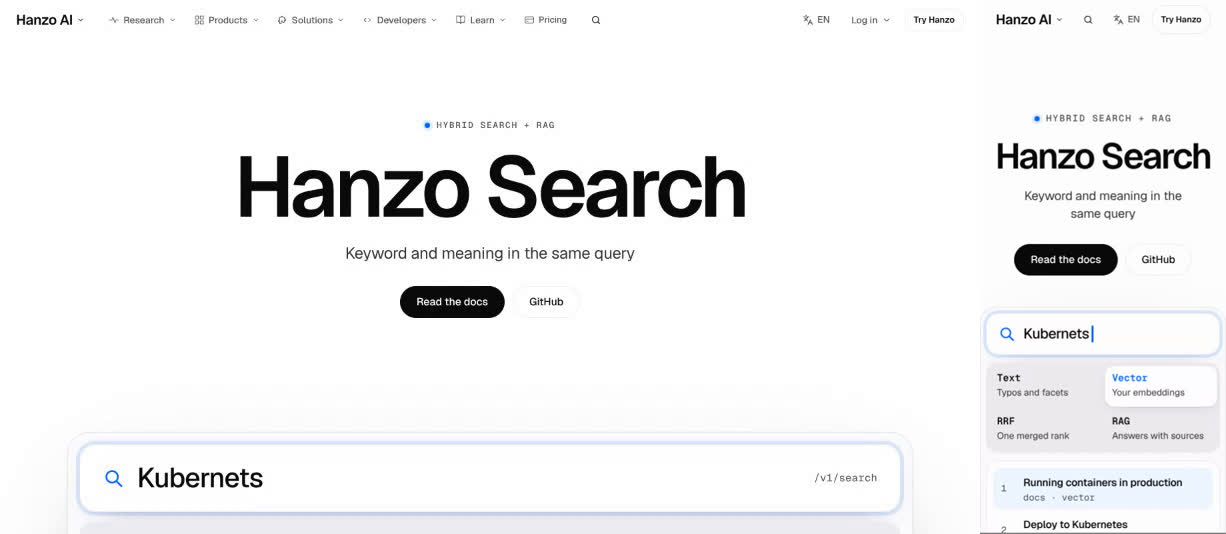
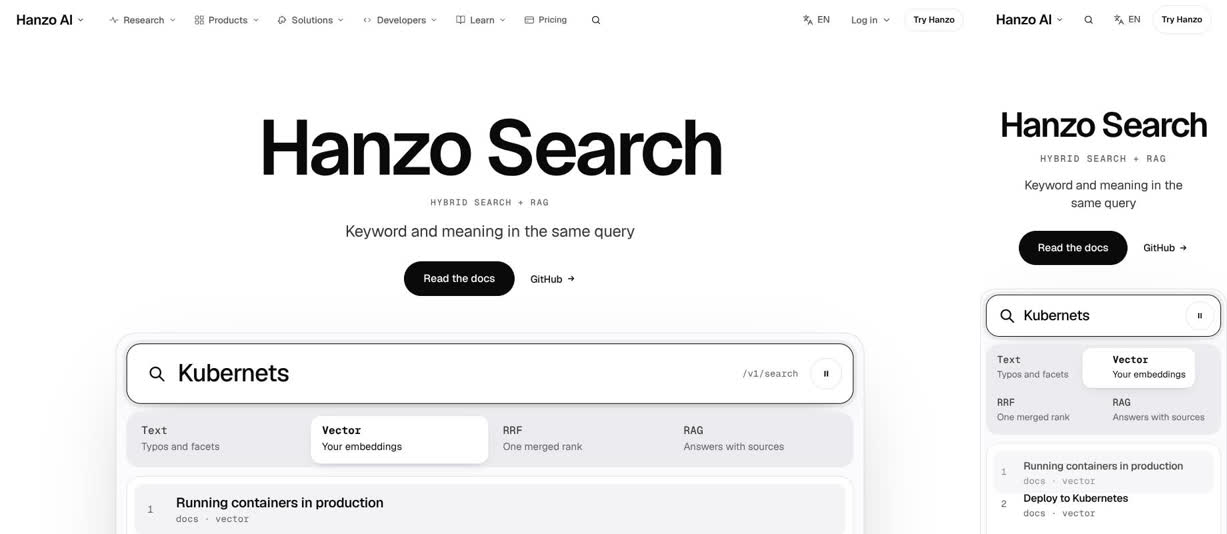
re-review: /search 6/10 on the recoloured build (ask bar covers content, everything big below the hero)
Claude-Session: https://claude.ai/code/session_01DqUybEnABm6Lfey1goid2b

diff --git a/docs/review/search.md b/docs/review/search.md
@@ -1,158 +1,167 @@
 # /search: James-eye review
 
-Verdict: 5/10
-First complaint: "It's still blue. The search box, the tabs, the dots, the sliders, the chat bubble, even a blue glow in the dark section, and the little green tag is still there. I said black, white and greys. And on my laptop it still opens on a big title with the search box cut off at the bottom, and nothing moves until I scroll."
+Verdict: 6/10
+First complaint: "The top is right now: it's black and white and the search types itself. But that 'Read the docs' bar sits on top of the words all the way down, it even hides a price, and on my phone I pressed Copy and it opened the docs. Everything under it is huge, and after the four ways nothing moves."
 
-Reviewed: main @ `48dfb49` (last page commit `486d6d0`). Files hash: `a75074f23cdd`
-Walked 7 Nov 14:19–14:21 UTC on the dev server, moving, at 1470×801 and 375×812 (videos, frame sheets and a frame-difference motion log kept by the critic; the site loader was skipped).
+Reviewed: main @ `cb11693` (last page commit `4b53974`). Files hash: `ddbb4c20614f`
+Walked 7 Nov 14:36–14:39 UTC on the dev server, moving, at 1470×801 and 375×812 (videos, frame sheets and a frame-difference motion log kept by the critic; the site loader was skipped).
 Proof: `img/search.jpg` (desktop first screen | phone first screen).
 
 ## Since the last review
-- **Done: the red error badge.** React no longer reports a server/client mismatch. No "1 Issue" badge appears in any frame, and the walker logged 0 page errors at both widths. The fix is the shared `useCalm` hook in `StageHero` and in the chapter pictures.
-- **Done: JS off.** The h1, the lede "Keyword and meaning in the same query" and both hero buttons now show with JS off (0 hidden text runs, down from 8).
-- **Half done: presses and the ask.**
-  - Hero "Read the docs" and "GitHub", "Contact Sales" and "View on GitHub" now press to 0.98, and "Copy" now answers hover.
-  - A sticky "Hanzo Search · Read the docs →" bar now follows you on desktop from the chapters to pricing. On phone the header's "Try Hanzo" goes outlined while that bar shows, so each phone screen has one fixed solid ask.
-  - The page still ends on a different solid verb, "Deploy to Cloud".
-- **Still open: everything else on the old list.** Since the last review `Search.jsx` changed by 6 lines (the reduced-motion hook and one import path), and `Search.css` did not change at all.
-  - `--ac: #0066ff` is still on `<main>`, and the file header still says "Accent: search-link blue". The walk measured blue in 40 text runs on desktop (22 last time). The green "typo fixed" tag is still there.
-  - The "● HYBRID SEARCH + RAG" eyebrow is still above the h1.
-  - The desktop bar still sits frozen on the fold.
-  - The dark room still holds the shared console, the chapter ticks still have a dead or fade-only hover, and the sliders are still native.
+- **Done: the colour, the eyebrow and the sliders.** There are 0 hues at either width; last time desktop had blue in 40 text runs, plus the green "typo fixed" tag. "HYBRID SEARCH + RAG" is now a caption under the h1, and the "/v1/search" kicker over "How it works" is gone. The plan sliders now have an ink track and thumb (desktop s10).
+- **Done: the desktop first screen runs and fits.**
+  - At 1470×801 the bar (y 515–605), the four modes (620–700) and the first result sit above the fold.
+  - The query types itself as soon as the page shows (d-sheet-01: "Ku" → "Kubernets"), then the modes take turns (the s0 shot pair goes from Text to Vector). There is a 44px pause.
+  - The RAG answer now ends in Hanzo's own sentence with "[1] RAG chat [2] How it works" (s6), instead of grey bars.
+  - The dark room shows the bar with documents landing in it, and the gateway console has moved into a drawer.
+- **Done: one ask to the end.** "Deploy to Cloud" is a text link. The fitted plan gets an ink ring and an outlined button. The black band repeats "Read the docs". There are 8 `data-cta` and 1 `data-thumb`, and `docs/coverage/search.md` exists.
+- **Still open:**
+  - the three equal "Related capabilities" boxes, and the two endings ("Get Search", then the band);
+  - Pause and the related cards still have no press, and "Vector" still has a dead hover;
+  - phone motion still dies after the first screen. Now 18 of 19 phone screens are STILL; last time it was 7 of 14.
+- **Not judged:** page commit `d5d6f10` (14:37) landed on main after this walk. Its message reads "one dark ending … related as a line of links, frameworks picker". The coverage card on main already describes that build, so the next walk has to check it.
 
 ## The 11 answers
-1. **Sells in 5 seconds, moves within 1 second?** Phone yes, desktop no.
-   - **The words are clear:** "Hanzo Search / Keyword and meaning in the same query", 128px at line height 0.92. After the usual blank body before the page loads, the title rises out of a mask at about 2.1 s.
-   - **Desktop at 1470×801:** the bar sits on the fold (about y 650–770), with about 175px of empty white between the buttons and the bar. The four modes and the results are below the screen. The bar holds a fixed "Kubernets" with a blinking blue caret. Measured: 0 of 25 frames changed in the first second after paint. The first-screen dwell was STILL (2 of 45 frames, the caret). The typing only starts once you scroll (sheet 02: the bar empties to "K" as the first scroll begins).
-   - **Phone:** good. The bar, the four modes and the first result fit 375×812. The query types itself and the modes switch from Text to Vector: 13 of 25 frames move in the first second, and 28 of 54 after that.
-2. **One in, one out, or a document?** It starts well and then turns into a document.
-   - **The stage works:** as you scroll, the title greys and lifts away while the bar rises and types. But the bar then holds the screen for two full scroll stops (650 and 1300px) and part of a third, running the same Text → Vector loop.
-   - **The four chapters are a real pinned scene** where one panel changes: the corrected Kubern**e**tes with "docs / last quarter", then the map by meaning, then two lists fusing into one, then the RAG chat.
-   - **After that it is stacked blocks:**
-     - a dark room with the console and three "Step" paragraphs;
-     - a list of framework names;
-     - pricing;
-     - two endings in a row: "Make your content searchable and conversational" with its own buttons and agent prompt, then "Related capabilities" and "Get Search".
-   - **Phone:** 7 of the 14 page screens are STILL (s3, s4, s6, s8, s10, s11, s13), and most of the others move 4–6 frames at a tiny size.
-   - The desktop film ends at the top of the footer, and the phone film reaches the end.
-3. **A real object in every section?** No.
-   - **Yes:** the stage (the bar), the chapters (four different pictures) and pricing. The "Which plan fits" finder works: moving Projects from 5 to 8 moves "fits" from Build to Scale and lights the Scale row (desktop sheet 11).
-   - **The RAG chat's "streamed answer"** is five grey bars that grow and never become words. It still reads as a loading placeholder.
-   - **The dark room's object** is the shared cloud console (gateway, payments-api, checkout-web, docs-site, "Building"), the same one /gateway, /base, /crawl, /registry and /billing use. Its caption is the gateway's line, "Every request enters here, so the limiter does too." It shows nothing about search.
-   - **No object at all:** frameworks is big type, "Related capabilities" is three text cards, and "Get Search" has nothing.
-4. **One ask, sticky after the hero?** Nearly, but not to the end.
-   - **The hero** has a black "Read the docs" and an outlined "GitHub".
-   - **The sticky bar:** from the chapters to pricing, "Read the docs →" sits in a bar at the bottom on both widths (desktop s3–s11, phone s2–s9), and on phone the header's "Try Hanzo" turns outlined beside it.
-   - **But:**
-     - In pricing the fitted plan's "Read the docs" also turns solid, so two black buttons share the screen.
-     - The page's last solid button is a different verb, "Deploy to Cloud", in the "Get Search" block.
-5. **Every hover and press answers?** No.
-   - **Mode tabs:** they press (0.98), but "Vector" has a dead hover. `Search.css` has no hover rule for the mode tabs at all, so "Text" only "answered" because the demo moved on by itself.
-   - **Chapter ticks:** "01" has a dead hover, and "04" has an opacity-only hover (banned). Both press to 0.98.
-   - **No press state:** the plan sliders (native browser range inputs tinted blue), the three "Related capabilities" cards, the "hanzoai" chip and the console's side icons.
-   - **Good:** the hero buttons, "Contact Sales" and "View on GitHub" press to 0.98. "Copy" presses to 0.92. The framework names nudge 10px on hover, but they turn blue as they do.
-6. **Overlap, font swap, layout shift?** None found.
-   - CLS is 0.009 on desktop (one result row as it fills) and 0 on phone.
-   - The h1 box is steady: one reading, 769×123 at top 218 on desktop and 329×53 at top 212 on phone.
-   - No horizontal scroll at 375 or 320, and no overlaps measured. The error badge is gone.
-7. **Which reference, and is its motion there?** The apple.com product page, and its motion is mostly there:
-   - a Spotlight-size bar as the product hero, with the copy stepping back as the object rises;
-   - pinned chapters where one panel changes;
-   - tabs whose white pill slides between them.
+1. **Sells in 5 seconds, moves within 1 second?** Yes, at both widths.
+   - **Desktop:** everything fits inside 801. "Hanzo Search" is 116px, the caption sits under it, then the lede "Keyword and meaning in the same query", then "Read the docs" and "GitHub", the bar, the four modes and the first result.
+   - The body is blank for the usual dev-server ~2 s ("first second after paint" 0/25 falls in that window). Then the h1 cuts in by mask, the query types, and the modes cycle: 10/48 moving frames in the rest of the 3 s.
+   - **Phone:** the 52px title, caption, lede, ask, bar, modes and two results are all on the first screen. 7/25 frames move in the first second and 41/63 after that.
+2. **One in, one out, or a document?** The first half yes, the second half is a document.
+   - **The stage:** the title steps back and the bar rises to the top and keeps answering. On desktop s1 it streams the RAG answer, with about 240px of empty white under the bar.
+   - **The four chapters** are a real pinned scene where one panel changes: the corrected Kubern**e**tes, the map by meaning, the two lists fusing into one, then the answer with its sources.
+   - **After that come stacked blocks:** the dark room, five framework names, pricing, "Get Search" with its prompt and three boxes, then the black band.
+   - **Motion past the chapters:** the shot pairs differ only by a 1–2px scroll settle. Once that is aligned out, the only authored motion is at s0 (typing, modes), s1 (the answer streaming) and s5 (the lists fusing). s3 and s4 are STILL, and s7–s14 change only by a blinking caret or a hover nudge. The dark room waits for a hover: d-sheet-11 shows "Index your content" unchanged for 4 s.
+   - **Phone:** 18 of 19 screens are STILL (shotdiff 0 from s1 to s18). The chapter pictures play on mount, so they are finished before you reach them.
+3. **A real object in every section?** Mostly.
+   - **Yes:** the bar (hero), four chapter pictures, the dark room's bar with documents landing, and the fit-finder ("Projects 5, Docs per project 10k, fits Build" lights the Build card).
+   - **No object:** frameworks is five names in big type. "Related capabilities" is three text boxes. The band is text only.
+   - **The drawer:** "See the example console" opens on phone (frame at 23.9 s), but it still holds the shared gateway console (gateway, payments-api, checkout-web, docs-site). Nothing in it is about search.
+4. **One ask, nothing floating over content? Scale has rhythm?** The ask is right, but the bar floats over content and the scale fails.
+   - **The ask:** one verb throughout. "Read the docs" is solid in the hero, in the site's ask bar from s2 to s11 at both widths (with the header's "Try Hanzo" outlined beside it), and in the band.
+   - **Floating over content, desktop:** the site's ask bar (`components/Ask.jsx`) is a fixed pill at bottom centre. It sits on:
+     - chapter 01's first result, where only "typo fixed" shows (s2);
+     - the dark room's "Cluster quotas" row (s7);
+     - the Enterprise card's "Custom" price (s10);
+     - "Paste this into any agent… from there" (s11).
+   - **Floating over content, phone:** the full-width bar covers:
+     - the last lines of the Vector and Hybrid paragraphs (s2, s3);
+     - the Pricing lede (s9);
+     - the prompt card's "AGENT PROMPT … Copy" row (s11). The walker tapped "Copy" there and the page navigated away: the tap landed on the bar's "Read the docs".
+   - **Scale:** everything below the hero is big at once. Live hanzo.ai rests at h1 52, section heads 26 and figures 64. This page rests at:
+     - h1 116px;
+     - every section head 56px;
+     - the chapter-01 word 92px under a 56px head and a 40px chapter title (s2);
+     - five 44px framework names beside a 56px head (s9);
+     - three 68px prices beside a 56px "Pricing" (s10);
+     - "Get Search" 96px (s11–s12);
+     - the band 76px.
 
-   The motion is a real mix: idle typing (phone only), state changes (the tab pill, the fit-finder row) and scroll (the stage, the chapters). synchronized.studio is absent: "Related capabilities" (Chat, Bot, Crawl) are plain cards that navigate on click. There is no anthropic-style hero figure.
-8. **Different from its neighbours?** Half.
-   - **The first screen is its own.** In Cloud 4 nothing else puts a centred title over a full-width search bar:
-     - /sentinel has its two-line title on the left and an issue card on the right;
-     - /telemetry and /tunnel have a one-line title on the left with the lede and button on the right;
-     - /visor puts the console on the left and the title on the right;
-     - /stream has a dark tape behind the title.
-   - **But it shares their tells:** the same coloured-dot eyebrow over the h1 (/telemetry, /tunnel, /visor and /sentinel all have one), and the same "rise" stage as /world.
-   - **From the chapters on, it is the Cloud kit:**
-     - numbered pinned chapters "01 / 04";
-     - one dark room with the shared console;
-     - the "Paste and ship" agent prompt card;
-     - a "Related capabilities" row;
-     - a "Get Search" block with license and "hanzoai" chips and "Deploy to Cloud", the same `Finale` as /sentinel, /stream, /telemetry, /tunnel, /visor and /world.
+     Nothing grows and settles back. The phone sizes are calmer (h1 52px, section heads 36px).
+5. **Every hover and press answers?** No.
+   - **Answers, with a press of 0.98:** hero "Read the docs"; the "Text" and "RRF" tabs; the "01" and "03" rail ticks; "Query it from anywhere"; "See the example console"; "hanzoai". "Copy" presses to 0.92, and "GitHub", "Deploy to Cloud" and "View on GitHub" press 1px.
+   - **Dead hover:** the "Vector" tab, the lit step cards ("Index your content", "Let people ask instead") and the sliders.
+   - **No press:**
+     - Pause: its hover `scale(1.06)` overrides the `:active` scale(.94), because both rules have the same specificity and the hover comes later.
+     - The related cards: the same fault, with their 4px hover lift, which the walker also logs as a jump.
+   - **Phone taps:**
+     - "Text" and "Let people ask instead" answer.
+     - The sheet does open, and Pause swaps to a play icon (p-sheet-01, last frames), although the walker logged both as "no visible change".
+     - "Copy" was under the ask bar, so the tap went to the bar instead.
+6. **Overlap, font swap, layout shift?**
+   - The fixed ask bar overlaps content at both widths (answer 4).
+   - On phone, the vector map's "Scaling a service" label sits on the corner of "Deploy to Kubernetes", and "Running containers in …" is cut (p-shot-03).
+   - The OVERLAP lines at desktop s7–s8 and phone s6–s7 are each step card's own invisible hit button (`.se2-step-hit`, inset 0) over its heading. Nothing visible overlaps there.
+   - The h1 box is steady: one reading at each width.
+   - CLS is 0.014 on desktop (one result row) and 0 on phone. There is no horizontal scroll at 375 or 320.
+7. **Which reference, and is its motion there?**
+   - **apple.com product page:** yes. A Spotlight-size bar is the product hero, the copy steps back as it rises, and the chapters pin while one panel changes.
+   - **motion.dev:** yes. The mode tabs' white pill glides, and the hybrid lists re-flow into one.
+   - **synchronized.studio:** absent. "Chat", "Bot" and "Crawl" are plain links, and no card opened into its page in the walk.
+   - **anthropic launch:** absent. No hero figure.
+8. **Different from its neighbours?** Only the hero.
+   - **The hero is its own.** In Cloud 4 nothing else centres a title over a full-width search bar:
+     - /sentinel (same commit) has a two-line title on the left and the issue card on the right;
+     - /stream has a dark partition tape behind a one-line title.
+   - **The rest is the Cloud 4 kit:**
+     - the mono caption under the h1 (/sentinel "SENTRY.HANZO.AI", /stream "KAFKA WIRE PROTOCOL");
+     - "01 / 04" pinned chapters with the rail;
+     - one dark room;
+     - the "Get X" block with "License" and "hanzoai" chips, "Deploy to Cloud", "Paste and ship" and three "Related capabilities" boxes, the same as "Get Sentinel";
+     - a black band;
+     - the same "Hanzo X | Read the docs" pill.
 
    James: "It's not just a template."
-9. **All 18 parts covered?** No; see below. `docs/coverage/search.md` is missing on main.
+9. **All 18 parts covered?** No; see below. The card exists and has all 18 parts, but two of its claims fail the walk.
 10. **Banned tells?** Yes:
-    - **Blue UI hue throughout.** The walk measured h210 in 40 text runs, 5 backgrounds and 4 borders on desktop (15, 5 and 4 on phone). It covers:
-      - in the stage: the bar icon, caret and glow ring, the active tab, and the first-row tint;
-      - in the chapters: "01 / 04", the "e" in Kubernetes, the "last quarter" chip, the map's query node and lines, the solid blue question bubble, and the [1] [2] source chips;
-      - in the dark room: "Step 01–03" and a blue glow under the console (`rgba(0,102,255,.45)`);
-      - in the frameworks list: the hovered name;
-      - in pricing: "Which plan fits" and "fits", the slider fills, and the lit plan's border and bullet dots;
-      - in the close: the "api" tag.
+    - **Floating over content:** the site's ask bar covers text, a price and the page's Copy button.
+    - **Everything big at once:** 56px heads beside five 44px names, then beside three 68px prices; "Get Search" at 96px.
+    - **Three equal boxes in a row:** Chat, Bot, Crawl (desktop s12).
+    - **A dead page on phone:** 18 of 19 screens are STILL. On desktop the dark room and everything below it move only when touched.
+    - **Clean:** no hue at either width, nothing above the h1 or any h2, 0 `title=` tooltips, no browser-default controls, no sound and no model cards.
+11. **Copy untouched?** Yes. Parity is 103/103 text and 14/14 links.
+    - The 13 added strings are demo data: the result titles, "How does RAG chat answer?", "docs ·" and the console's build line.
+    - The rest are UI labels: "typo fixed", "Which plan fits", "fits", "See the example console" and "Open in the console ↗".
+    - The streamed answer is Hanzo's own RAG chat sentence. Nothing added is a claim or a number.
 
-      The page declares it: `--ac: #0066ff` and "Accent: search-link blue". JAMES.md rule 7: the UI has 0 hues.
-    - **A green "typo fixed" tag** (h135, `#1a7f37` on `#e7f6ec`), on the first screen of the phone and in chapter 01.
-    - **A "● HYBRID SEARCH + RAG" eyebrow** 22px above the h1, with a blue dot. There is also a "/V1/SEARCH" kicker above the dark room's "How it works".
-    - **Hovers:** opacity-only on chapter tick "04", and dead on tick "01" and the "Vector" tab.
-    - **Browser-default controls:** the two plan sliders are native `<input type="range">` with `accent-color`, and there are 8 native `title=` tooltips on the console icons.
-    - No sound plays. No Hanzo model cards are on this page.
-11. **Copy untouched?** Yes. Parity is 103/103 text and 14/14 links. The 12 added strings are the same as before:
-    - demo data: the query "Kubernets", the result titles, "How do I deploy to Kubernetes?" and the console's build line;
-    - labels: "typo fixed", "Which plan fits", "fits", "Open in the console ↗".
+## Missing from the 18 parts (MASTER §2, measured; coverage card checked)
+- **Part 1 Strategy:** Persona, Goal and CTA are in the header. The metric id is inside the CTA line ("Metric: cta_click:search.primary"), so the check finds none. The card lists no copy questions.
+- **Part 3 First impression:**
+  - After the stage, the bar holds the top of the screen with about 240px of empty white under it (desktop s1).
+  - The page still ends twice: "Get Search" with its prompt and boxes, then the band.
+  - No card opens into its page (Morph).
+- **Part 4 Conversion:** the site's ask bar sits over content at both widths: desktop s2, s7, s10 and s11, phone s2, s3, s9 and s11. On phone it sits on the prompt's Copy button.
+- **Part 6 Content:** "FITS" is 13px on phone, under the 14px floor. It is a mono capital label, so it should be a 12px caption or 14px.
+- **Part 7 Visual system:**
+  - 0 hues, and nothing above a headline.
+  - `Search.css` carries 32 literal greys (`#5f5f64` ×13, `#3a3a3c` ×5, `#f5f5f7` ×4, …) instead of the `--hz-*` tokens. `#5f5f64` is not a token at all.
+  - Only the hero differs from its neighbours.
+- **Part 8 Components:**
+  - The Pause and related-card presses are masked by their hover transforms.
+  - The "Vector" tab, the lit step cards and the sliders have no hover.
+  - 9 bare `:hover` rules and 5 raw `.x-btn` uses (source scan).
+- **Part 9 Motion:**
+  - Below the chapters nothing runs without input. `HowBar`'s own comment says "nothing here runs by itself".
+  - Phone is 18 of 19 STILL.
+  - There are 4 `type: 'spring'` transitions (stiffness 300, damping 30), where the deck says no springs.
+  - There are 4 `setInterval` timers.
+  - Reduced motion settles (0 running after 3 s).
+- **Part 11 Mobile:**
+  - "GitHub" (68×21), "Deploy to Cloud" (132×21) and "View on GitHub" (127×21) are under 44px.
+  - The vector map's labels collide.
+  - The bottom bar covers text and the Copy button.
+- **Coverage:** `docs/coverage/search.md` has all 18 parts in the older numbered format, but two claims are false:
+  - **Part 9:** "every button scales .98 on press". Pause and the related cards do not press, and the sliders have no hover.
+  - **Part 11:** "targets ≥44px … the ask bar sits under the thumb". Three links are 21px tall, and the bar covers text and Copy.
 
-    None is a claim or a number.
-
-## Missing from the 18 parts (PLAN-COMPONENTS §2.1–2.18, measured)
-- **2.1 Strategy / 4 Common gate:** no `Persona:`, `Goal:`, `CTA:` or metric id in the page header. Pricing shows two solid "Read the docs" buttons at once (the fitted plan's and the sticky bar's).
-- **2.3 First impression:**
-  - At 1470×801 the hero object is cut at the fold and frozen until you scroll.
-  - The page does not end in a Band that repeats the hero ask (`bandAtEnd` false; the last solid button is "Deploy to Cloud").
-  - The related cards do not open into their pages (Morph row).
-- **2.4 Conversion:** 0 `data-cta`. The sticky bar ("Read the docs →") and the final solid button ("Deploy to Cloud") use different verbs.
-- **2.6 Content:** 18 text runs at 13px on phone, below the 14px floor ("Search — Hanzo", "Ready", "Building", "api.hanzo.ai/v1/search", "/v1/search"). On desktop, "Copy" measures under the 13px floor.
-- **2.7 Visual system:** the blue accent, declared as a page token (`--ac`), the blue glow in the dark room, and the green tag all break the 0-hue override.
-- **2.8 Components:**
-  - 8 `title=` tooltips (plan: 0).
-  - 10 bare `:hover` rules and 6 raw `.x-btn`.
-  - No hover rule on the mode tabs. Chapter ticks: dead or opacity-only hover.
-  - Native range sliders.
-  - No press on the related cards, the sliders or the console icons.
-- **2.9 Motion:** 3 `setInterval` timers (the typing loop and two in the shared `Frame.jsx`). The hero demo loops every 14.4 s with no pause control (WCAG 2.2.2 row in 2.12). The desktop hero demo does not start until scrolled. Reduced motion is good: everything comes to rest.
-- **2.11 Mobile:** these hit areas are under 44px:
-  - "Search — Hanzo" (13px tall);
-  - "Open in the console" (36px);
-  - the "hanzoai" chip (36px).
-- **2.12 Accessibility:** contrast under 4.5:1 on the active tab "Text" (4.1:1, blue), "Step 01/02/03" (4.3:1) and the prompt's "api" tag (3.7:1).
-- **2.17 States:** the RAG answer is a skeleton that never resolves, so the page shows a loading state as its finished state.
-- **Coverage:** `docs/coverage/search.md` is missing on main.
-- Passing:
-  - structure: one h1, one main, no raw img/video/table, and no horizontal scroll at 320;
-  - JS off is legible (0 hidden runs), and reduced motion settles;
-  - CLS 0.009 or less, no page errors and no error badge;
-  - parity is complete;
-  - the phone first screen holds the product and moves;
-  - a sticky ask in the hero's words appears on both widths.
+  Its part 2 and "Ledger (deleted)" lines now describe `d5d6f10`, which this walk did not see.
+- **Passing:**
+  - **Structure:** one h1 and one main; no raw img, video or table; no horizontal scroll at 320.
+  - **Load and fallbacks:** JS off shows everything (0 hidden runs), and reduced motion settles. The h1 box is steady, CLS is 0.014 and 0, and there are no console errors at either width.
+  - **Look:** 0 hues, nothing above any headline, 0 low-contrast runs, 0 title tooltips, and custom sliders.
+  - **Ask and states:** 8 `data-cta` and 1 `data-thumb`; the band repeats the hero's ask; the RAG answer resolves; the hero object has a 44px pause.
+  - **Copy:** parity 103/103 and 14/14.
 
 ## Fixes (in order)
-1. **Take the blue and the green out.** Set `--ac` to ink, or remove it from `<main>`.
-   - **Stage:** make the bar's icon, caret and focus ring ink and grey, and show the active tab by weight.
-   - **Chapters:**
-     - Mark the corrected "e" with an ink underline.
-     - Make the query node, its lines, the question bubble and the source chips ink.
-     - Turn "typo fixed" into an ink outline chip.
-   - **Dark room:** make "Step 01–03" grey, and delete the blue `box-shadow` under the console.
-   - **Frameworks and pricing:** keep the frameworks hover as the 10px nudge in ink. Draw the lit plan, its dots and the slider fill in ink.
-2. **Move "Hybrid Search + RAG" off the headline.** Keep the words but put them where nothing sits above the h1, for example in the bar's right-hand slot beside "/v1/search", or under the lede in grey. Delete the "/v1/search" kicker above "How it works"; the address is already in the bar.
-3. **Make the desktop first screen run and fit.**
-   - Start the typing on arrival: call `useLive(0)` in `Ask`, or start it on mount.
-   - Cut the ~175px gap between the buttons and the bar, so the bar and the four modes sit above 801.
-   - Shorten the stage so the bar holds for one scroll stop, not two.
-4. **One ask to the very end.** Make "Read the docs" the last solid button: "Deploy to Cloud" in the "Get Search" block becomes outlined or a text link. In pricing, mark the fitted plan with an ink border and leave its button outlined while the sticky "Read the docs →" bar is showing.
-5. **Make every control answer.**
-   - Give the mode tabs a hover: ink label plus a faint pill.
-   - Give the chapter ticks a hover that is not opacity (a width or label reveal).
-   - Restyle the two sliders with `appearance: none`, an ink track and an ink thumb that grows on hover and presses to 0.98, keeping the same input underneath.
-   - Give the related cards a press of 0.98.
-   - Drop the 8 `title=` attributes from the console icons; they already show their own label.
-6. **Give the dark room Search's own object, and let the RAG answer finish.**
-   - Swap the shared gateway console for the bar from the hero, small, driven by the three Steps:
-     - "Index your content" shows documents landing in it;
-     - "Query it from anywhere" shows the hook, the REST API and the MCP tool calling it;
-     - "Let people ask instead" shows the answer with its two linked sources.
-   - In chapter 04, end the grey bars on a resolved state. The two sources, "Deploy to Kubernetes" and "Kubernetes ingress", grow into the answer's cards, so it never rests as a loading skeleton.
+1. **Get the ask bar off the content.** Write `docs/requests/search.md` for `components/Ask.jsx`:
+   - **Desktop:** no bottom pill. Once the hero ask leaves view, put "Read the docs" in the header's ask slot, which MASTER part 4 already asks for.
+   - **Phone:** reserve the bar's height at the bottom of each section, so it never sits on text.
+   - **On this page now:** put `data-ask-hide` on the "Get Search" prompt card, so the bar steps aside for Copy.
+2. **Give scale a rhythm.** Set this page's resting sizes to live hanzo.ai's:
+   - `.se2 .l2-head` 26px;
+   - framework names 21px;
+   - the fitted plan's price at 64px and the other two at 32px, so the price grows as its plan fits;
+   - "Get Search" and the band head 52px.
+
+   Let the h1 start at 116px and shrink to 52px as the bar rises. Keep chapter 01's "Kubernetes" as that screen's one big thing.
+3. **Keep something moving below the chapters.**
+   - **Dark room:** let it step through its three steps by itself while it is on screen, with `useSteps(3, 4200, live)` as the hero does. Hover, tap or a pause stops it.
+   - **Phone:** start each chapter picture when it reaches 60% in view, not on mount, so the lists fuse and the answer streams while you look at them.
+4. **Make every control answer.**
+   - Write the Pause and related-card presses as `:hover:active`, or move the `:active` rules below the hover block, so the press shows.
+   - Give the mode tabs a hover that reads (a faint white pill under the label), the lit step card a hover, and the slider thumb a hover grow.
+   - Make "GitHub", "Deploy to Cloud" and "View on GitHub" 44px tall on phone.
+5. **End once, with no three boxes.** Turn "Related capabilities" into one line of links (Chat, Bot, Crawl) and fold "Get Search" into the black band. `d5d6f10` says it does both; the next walk will check.
+6. **Correct the card and the curves.**
+   - Fix the part 9 and part 11 claims.
+   - Put the metric id on its own header line.
+   - Swap the four `type: 'spring'` transitions for `ease-emphasis` at 300 ms.
